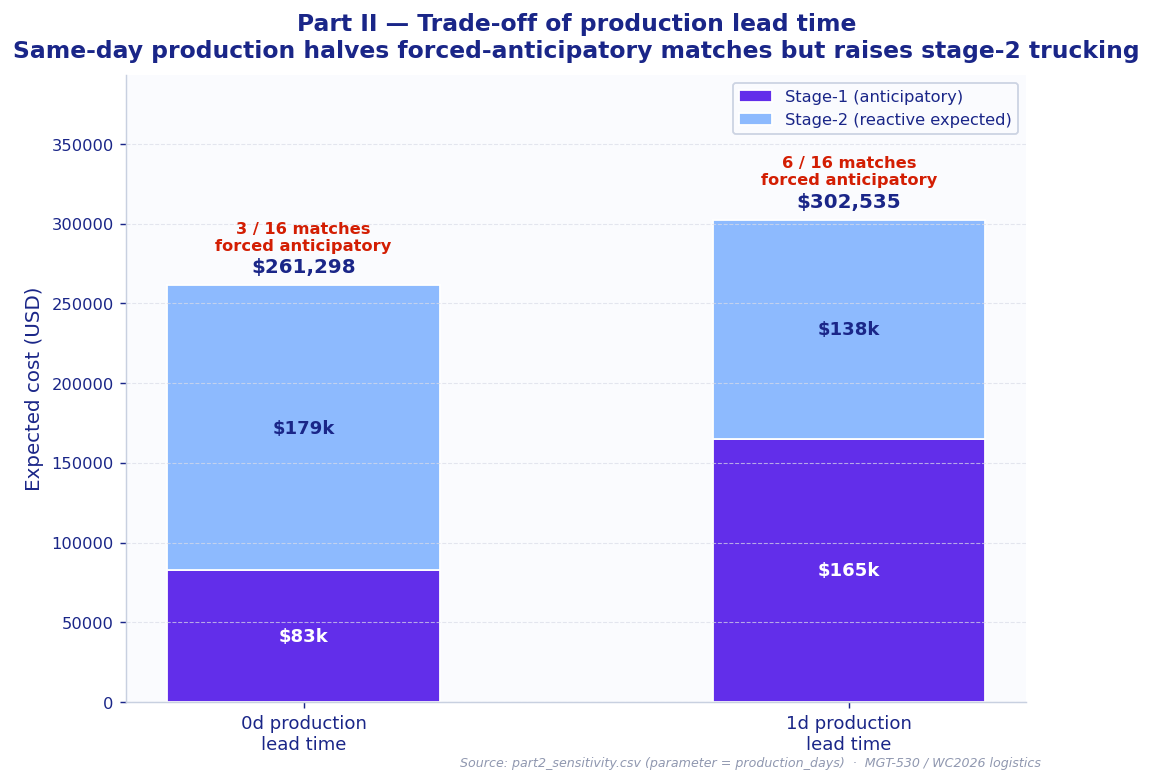
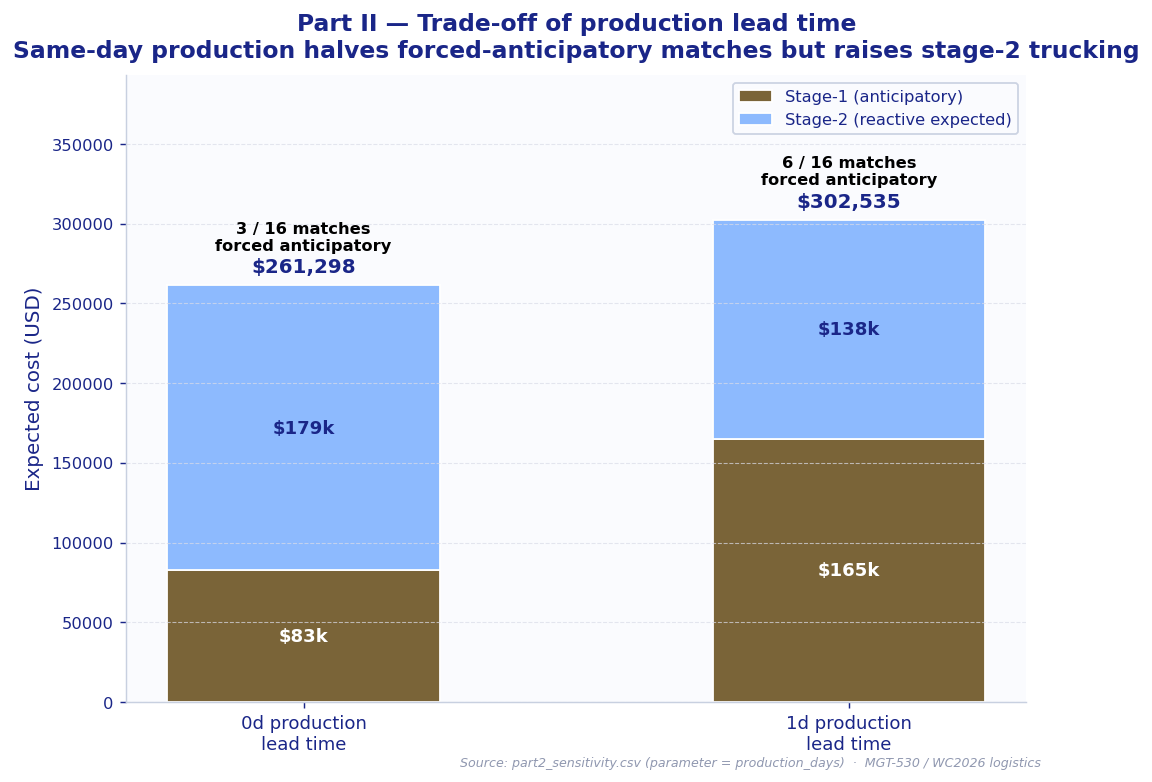
style: re-skin 25 figures with cooler palette (blues + black + cool golds)
Palette change:
- Retired: purple (#622EEA), red (#D31E03), lime (#AEEA00)
- Kept: bright blue (#375AFE), light blue (#8DBAFE), navy (#1A2688)
- Added: black (#000000), light gold (#C9B488), dark gold (#7A6438)

Semantic remap:
- Stage-1 anticipatory / FEU line / decision accent  ->  DARK GOLD
- Forced anticipatory / cost increase / warning      ->  BLACK
- Savings / reactive / positive                       ->  LIGHT GOLD
- LED, soft goods, baseline, ocean: unchanged (blues + navy)

Implementation: remap done once at the palette block in visualize.py.
Retired colour names aliased to new constants to keep all figure code
working without per-call edits. Two title strings updated to drop
explicit colour references (no more "pink-shaded" / "red outline").

Scope: figures only. LaTeX report (report/report.tex) keeps the FIFA
brand palette for section headers, callouts and hyperlinks.

All 25 PNG figures regenerated. Headline numbers unchanged
($458,626 / 71 FEU / $302,535 / 6 forced matches).

diff --git a/src/common/visualize.py b/src/common/visualize.py
@@ -62,29 +62,35 @@ from part2_stochastic.model import solve_stochastic
 
 
 # ============================================================================
-# === STYLE === FIFA WC2026 brand palette
+# === STYLE === Cooler palette (FIFA blues + black + cool golds)
 # ============================================================================
-F_PURPLE  = "#622EEA"
-F_RED     = "#D31E03"
-F_LIME    = "#AEEA00"
-F_BLUE    = "#375AFE"
-F_LBLUE   = "#8DBAFE"
-F_NAVY    = "#1A2688"
+F_BLUE    = "#375AFE"   # bright blue
+F_LBLUE   = "#8DBAFE"   # light blue
+F_NAVY    = "#1A2688"   # dark navy
+F_BLACK   = "#000000"   # warnings / forced / extra cost
+F_GOLD    = "#C9B488"   # lighter cool gold (savings / reactive)
+F_DGOLD   = "#7A6438"   # darker cool gold (stage-1 / decision)
+
+# Retired colour names remapped to new palette (avoids hunting every usage).
+# Old semantic intent is preserved by the chosen remap.
+F_PURPLE  = F_DGOLD     # stage-1 / decision accent (was purple)
+F_RED     = F_BLACK     # warnings / forced / extra cost (was red)
+F_LIME    = F_GOLD      # savings / reactive / positive (was lime)
 
 # Semantic aliases
 C_LED       = F_BLUE
 C_SOFT      = F_LBLUE
-C_STAGE1    = F_PURPLE
+C_STAGE1    = F_DGOLD
 C_STAGE2    = F_LBLUE
-C_FORCED    = F_RED
-C_REACTIVE  = F_LIME
-C_SAVINGS   = F_LIME
-C_EXTRA     = F_RED
+C_FORCED    = F_BLACK
+C_REACTIVE  = F_GOLD
+C_SAVINGS   = F_GOLD
+C_EXTRA     = F_BLACK
 C_BASELINE  = F_NAVY
 C_SEA       = F_NAVY
 C_NEUTRAL   = "#C8D0E0"
 
-COST_COLORS = [F_NAVY, F_PURPLE, F_BLUE, F_LBLUE, F_RED, F_LIME]
+COST_COLORS = [F_NAVY, F_DGOLD, F_BLUE, F_LBLUE, F_BLACK, F_GOLD]
 
 plt.rcParams.update({
     "font.family":            "DejaVu Sans",
@@ -1088,7 +1094,7 @@ def fig_part2_feasibility():
     ax.legend(handles=legend_els, loc="upper right", fontsize=8.5)
     _title_block(ax,
                  "Part II — Feasibility: reactive supply needs  transit ≤ window − 1 day",
-                 f"{len(forced_idx)} matches are forced anticipatory (red outline)")
+                 f"{len(forced_idx)} matches are forced anticipatory (outlined bars)")
     fig.tight_layout()
     _footer(fig, "scenario 0 + edges.csv + production_sites.csv")
     _save(fig, "part2_feasibility.png")
@@ -1336,7 +1342,7 @@ def fig_anticipatory_by_match():
     ax.legend(handles=legend_els, loc="upper right", fontsize=8.5, ncol=2)
     _title_block(ax,
                  "Part II — Supply strategy by R32 match",
-                 "Pink-shaded matches are forced anticipatory: window ≤ transit + 1 day")
+                 "Shaded matches are forced anticipatory: window ≤ transit + 1 day")
     fig.tight_layout()
     _footer(fig, "solve_stochastic() + edges.csv")
     _save(fig, "part2_anticipatory_by_match.png")
